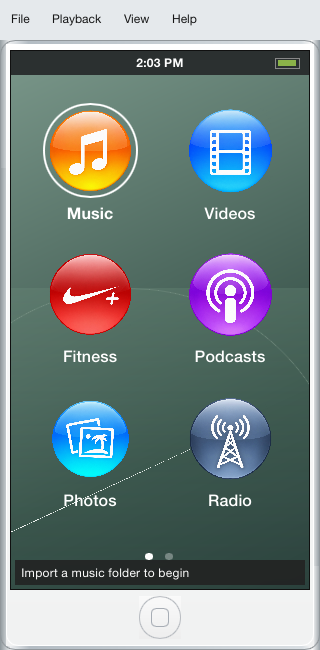
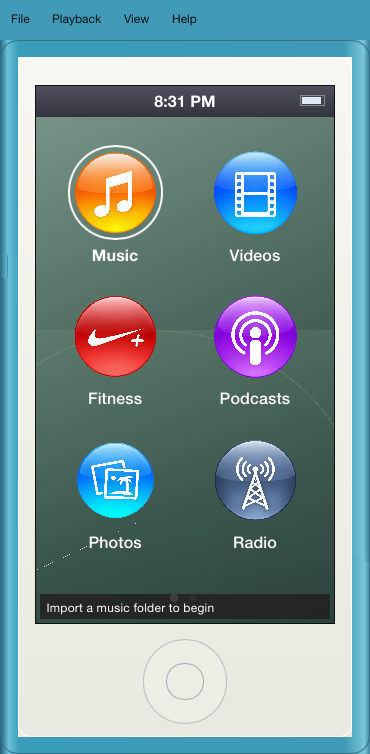
Document platform integration future media and verified delivery

diff --git a/src/app/i18n.rs b/src/app/i18n.rs
@@ -407,15 +407,15 @@ pub fn notice(language: Language, text: &str) -> String {
             );
         }
     }
-    if let Some(rest) = text.strip_prefix("Conflicting shortcut: ") {
-        if let Some((keys, action)) = rest.split_once(" is already assigned to ") {
-            return translate(
-                language,
-                "Conflicting shortcut: {0} is already assigned to {1}",
-            )
-            .replace("{0}", keys)
-            .replace("{1}", &translate(language, action));
-        }
+    if let Some(rest) = text.strip_prefix("Conflicting shortcut: ")
+        && let Some((keys, action)) = rest.split_once(" is already assigned to ")
+    {
+        return translate(
+            language,
+            "Conflicting shortcut: {0} is already assigned to {1}",
+        )
+        .replace("{0}", keys)
+        .replace("{1}", &translate(language, action));
     }
     if let Some(rest) = text.strip_prefix("No entries for ") {
         return format!("{} {}", translate(language, "No entries for"), rest);

diff --git a/src/library/lyrics.rs b/src/library/lyrics.rs
@@ -218,9 +218,9 @@ pub fn read_source(path: &Path) -> Result<Lyrics, String> {
 
 fn decode(bytes: &[u8]) -> String {
     if bytes.starts_with(&[0xff, 0xfe]) {
-        encoding_rs::UTF_16LE.decode(&bytes).0.into_owned()
+        encoding_rs::UTF_16LE.decode(bytes).0.into_owned()
     } else if bytes.starts_with(&[0xfe, 0xff]) {
-        encoding_rs::UTF_16BE.decode(&bytes).0.into_owned()
+        encoding_rs::UTF_16BE.decode(bytes).0.into_owned()
     } else {
         String::from_utf8(bytes.to_vec())
             .unwrap_or_else(|_| encoding_rs::GBK.decode(bytes).0.into_owned())

diff --git a/tests/library_order.rs b/tests/library_order.rs
@@ -21,8 +21,10 @@ fn track(title: &str, artist: &str, album: &str, number: u32, path: &str, artwor
     }
 }
 fn state(tracks: Vec<Track>, screen: Screen) -> State {
-    let mut s = State::default();
-    s.tracks = tracks;
+    let mut s = State {
+        tracks,
+        ..State::default()
+    };
     s.navigation.open(screen);
     s
 }

diff --git a/README.md b/README.md
@@ -32,6 +32,7 @@ On macOS, File, Playback, View and Help are native menus at the top of the scree
 | Navigation | L / Enter | Open or activate selection in lists; Enter opens Home icons |
 | Navigation | H / Escape / Backspace | Back in lists, restoring the previous selection |
 | Navigation | Shift + H | Physical Home button |
+| Navigation | F, then A–Z | Jump to the first matching list entry and scroll it into view |
 | Navigation | Left / Right | Home grid/pages; back/activate in lists; seek on Now Playing; volume when its slider is selected |
 | Application | Cmd/Ctrl + O / F | Import folder / search library |
 | Application | Cmd/Ctrl + Comma | Settings |
@@ -40,27 +41,25 @@ On macOS, File, Playback, View and Help are native menus at the top of the scree
 
 All app shortcuts pause while the search field has focus, preserving native text editing. Enter or Escape returns focus to results. Playback remains accessible across screens and during background scanning. **Help → Keyboard Shortcuts** displays the currently loaded bindings, grouped into the three categories above.
 
-Click the cover to reveal the seek bar, repeat, lyrics, shuffle and album track-list controls. Lyrics stay over the artwork in a translucent, left-aligned panel. Click the cover or lyrics again to dismiss the overlay. The lyrics button can hide just the words while keeping the controls open. Transport and volume remain available at the bottom. Lists and lyrics use Slint's native wheel/trackpad scrolling. Horizontal scrolling changes Home pages; the page-dot area also supports a mouse drag. Drag the bezel to move the window. Resize its edges or use zoom shortcuts; the display keeps its aspect ratio. macOS three-finger dragging is controlled by the system's trackpad settings.
+Available lyrics appear by default over the artwork in a translucent, left-aligned panel. Click the cover or lyrics to toggle this overlay together with the seek bar, repeat, shuffle and album track-list controls. Artwork fits the available region without cropping, including portrait and landscape images. Transport and volume remain available at the bottom. Lists and lyrics use Slint's native wheel/trackpad scrolling. Horizontal scrolling changes Home pages; the page-dot area also supports a mouse drag. Drag the bezel to move the window. Resize its edges or use zoom shortcuts; the display keeps its aspect ratio. macOS three-finger dragging is controlled by the system's trackpad settings.
 
 ## Lyrics
 
-The player tries these sources in order:
+Use **File → Import / Replace Lyrics** or **Settings → Lyrics for Track** to associate a `.txt` or `.lrc` file with the selected song (or the playing song outside a song list). Manual imports take precedence and persist their content across restarts and rescans, even if the source lyrics file moves. **Remove Lyrics** suppresses automatic lyrics; **Use Automatic Lyrics** clears that choice and discovers lyrics again.
 
-1. A same-name `.lrc` or `.LRC` beside the song.
-2. MP3 ID3 SYLT synchronized lyrics with millisecond timestamps.
-3. Embedded lyrics tags, including ordinary text and LRC content.
+Automatic discovery checks a same-name `.lrc` beside the audio first, then `.txt`, then embedded synchronized/plain tags. Extension matching is case-insensitive. Blank sidecars fall back to the next source. TXT remains literal, scrollable text.
 
 LRC supports repeated timestamps, decimal fractions, positive/negative offsets, UTF-8, UTF-16 and GBK sidecars. The current line follows the audio engine's playback position and scrolls into view. Seeking updates the highlight. Enhanced LRC word tags are reduced to text; highlighting is per line. Songs without lyrics or artwork still play normally and show an appropriate fallback. Unsupported SYLT timestamp units fall back to plain lyrics.
 
 ## Configuration
 
-The first launch creates `shortcuts.json` (version 3); `settings.json` is saved when the window changes mode/zoom and when the app closes. On macOS the default directory is `~/Library/Application Support/Nano.Nano-Music-Player`; Windows and Linux use their native application configuration directories. `--config-dir` overrides this.
+The first launch creates `shortcuts.json` (version 4); `settings.json` saves display preferences and interface language. **Settings → Language** selects English (default), 简体中文 or 日本語. Music metadata and lyrics keep their original text. On macOS the default directory is `~/Library/Application Support/Nano.Nano-Music-Player`; Windows and Linux use their native application configuration directories. `--config-dir` overrides this.
 
 **Settings → Keyboard Shortcuts** edits bindings in the app. Select an action with J/K, open it with L/Enter, choose **Replace keys** or **Add key**, then press a key combination. **Remove keys** disables that action’s shortcuts, **Default keys** restores its bindings, and **Restore All Defaults** resets the complete keymap. Changes are validated for conflicts, saved atomically, and applied immediately; Escape cancels recording or closes the editor. You can also edit JSON while the app is closed and restart to apply changes. Examples are in [`examples/`](examples/). Shortcut entries contain a semantic action, a key, and exact modifiers. `primary` means Command on macOS and Control elsewhere; `secondary` means Control on macOS and Super elsewhere. Remove a binding to disable it, or add an alias. Duplicate/ambiguous bindings are rejected with a visible message and defaults are used.
 
-Unmodified version 1 or 2 defaults are automatically upgraded to the Yazi-style navigation. Custom version 1 maps are preserved. On Home, H/L move horizontally between icons and pages, J/K move vertically, and Enter opens the selection. In lists, H/L go back/open and J/K move by one row. Arrow keys additionally provide seeking and volume adjustments on Now Playing.
+Untouched version 1–3 defaults upgrade to the current navigation and F-prefix shortcut. Customized maps remain unchanged; Jump to letter can be assigned in Settings. On Home, H/L move horizontally between icons and pages, J/K move vertically, and Enter opens the selection. In lists, H/L go back/open and J/K move by one row. Arrow keys additionally provide seeking and volume adjustments on Now Playing.
 
-`zoom` ranges from 0.75 to 3.0. A saved `window_width` takes precedence over zoom at startup; `window_height` is used when only height is provided. Remove both dimensions to size the window from `zoom`. Resizing keeps the display proportions and persists the resulting dimensions.
+`zoom` ranges from 0.75 to 3.0. A saved `window_width` takes precedence over zoom at startup; `window_height` is used when only height is provided. Remove both dimensions to size the window from `zoom`. Screen Mode preserves 240:432; Device Mode follows the complete hardware ratio 39.6:76.5. The LCD uses one logical coordinate system at every zoom. Resizing persists the resulting dimensions.
 
 ## Structure and verification
 
@@ -78,4 +77,10 @@ cargo clippy --all-targets -- -D warnings
 
 Tests include dispatcher/state regressions, small original MP3/M4A/FLAC/WAV fixtures, embedded lyrics, and headless Slint key/pointer events plus rendered screenshots. GUI test snapshots are written to the system temporary directory. Platform-specific audio output and gestures still benefit from native testing on each target OS.
 
-Settings opens a working settings screen for shortcuts, display mode and zoom. The remaining nonmusic Home icons currently open placeholders. Radio, clock, fitness, photos, podcasts and video playback are outside this implementation; Playlists currently exposes All Songs. The player layout follows the provided seventh-generation nano photos and the Apollomaniacs music guide. See [`docs/RESOURCES.md`](docs/RESOURCES.md) for sources, asset provenance and licenses.
+Settings includes customizable shortcuts, display mode, zoom, per-track lyrics and language. The remaining nonmusic Home icons currently open placeholders. Radio, clock, fitness, photos, podcasts and video playback are outside this implementation; Playlists currently exposes All Songs. The player layout follows the provided seventh-generation nano photos and the Apollomaniacs music guide. See [`docs/RESOURCES.md`](docs/RESOURCES.md) for sources, asset provenance and licenses.
+
+Artists, Albums and global Songs sort alphabetically using case-insensitive keys with deterministic tie-breakers. Individual albums retain track-number order. Album and artist rows show representative cover thumbnails.
+
+See [`docs/MACOS_INTEGRATION.md`](docs/MACOS_INTEGRATION.md) for the stable bundle ID and targeted AeroSpace floating rule. The app leaves your window-manager configuration untouched. [`docs/FUTURE_MEDIA.md`](docs/FUTURE_MEDIA.md) evaluates future video and podcast architecture. Implementation phases and verified checks are tracked in [`docs/IMPLEMENTATION_PLAN.md`](docs/IMPLEMENTATION_PLAN.md).
+
+The Rust/Slint architecture supports Windows and Linux, but this implementation has been built and exercised on macOS only. Native Windows/Linux compilation, audio output, packaging and UI behavior remain unverified.

diff --git a/docs/FUTURE_MEDIA.md b/docs/FUTURE_MEDIA.md
@@ -1,0 +1,67 @@
+# Future video and podcast support
+
+This is an architecture evaluation only. Video playback and podcast features are not implemented.
+
+Both are feasible while preserving the reducer/controller architecture. Podcasts can extend the current audio worker and SQLite cache incrementally. Video has a larger integration cost because it requires a multimedia backend, an audio/video clock and a frame presentation path; prototype those boundaries before committing to a backend.
+
+## Video playback
+
+The current playback path is audio-only: the controller applies semantic actions to the reducer, emits `AudioCommand`s, and a worker owns the Rodio output stream, sink, decoder and progress events. Slint/FemtoVG renders the application UI. The library scanner currently recognizes audio extensions and stores audio metadata and artwork in the `tracks` SQLite table.
+
+Video needs a separate media backend, not just another audio extension. The backend must demux audio and video, decode both streams, schedule video frames against an audio clock, handle seek/pause/rate changes, and report end/error state. Audio is typically the stable playback clock; decoded frames need to be dropped or delayed to remain synchronized after seeking and under load. The current 100 ms progress polling is adequate for a position indicator but does not provide a frame presentation clock.
+
+The app currently uses Symphonia 0.5 through Rodio for audio. Symphonia 0.6.1 documents video codec support as experimental and warns against production use. A video implementation should first prototype a maintained multimedia backend with demuxing, decoding, audio output and seeking (for example, a native platform backend or GStreamer/libmpv integration), then confirm packaging, licensing and codec availability on each OS. [Symphonia 0.6.1 feature status](https://docs.rs/symphonia/0.6.1/symphonia/).
+
+Rendering is a second major decision. Slint's `Image` can present pixel buffers or textures, but the current FemtoVG path does not establish a video-frame import/presentation pipeline. A CPU path can copy decoded frames into owned RGBA buffers and update a Slint image on the UI event loop; this is simpler but risks expensive copies and UI stalls at video rates. A GPU/native texture path avoids copies but requires renderer/backend interop, texture lifetime rules, synchronization, and a supported fallback. Slint documents its image and texture APIs, but integration must be validated against this app's pinned Slint 1.18.1 and renderer configuration. [Slint `Image`](https://docs.rs/slint/1.18.1/slint/struct.Image.html).
+
+Preserve the existing reducer and semantic `Action` model as the source of playback state. Introduce a media-worker interface behind commands and events; decoder and rendering callbacks must not mutate `State`. Keep probing and decoding off the UI thread. Deliver owned frame data or retained texture handles through a bounded latest-frame channel so a slow UI drops stale frames. Make shutdown and resource lifetimes explicit. The audio engine currently checks track IDs; add a monotonically increasing playback generation to every command, frame and event so reopening the same item also rejects events from a previous playback session.
+
+Suggested first milestone: play one local MP4 with synchronized audio, pause/resume, seek, stop, and clean shutdown; test seek during playback, rapid source changes, decode errors, window resize, and repeated open/close. Defer playlists, subtitles, hardware acceleration, and broad codec claims until the baseline works on macOS and another target.
+
+## Podcasts
+
+Podcasts fit the existing music player more naturally, but need feed and episode domain objects rather than treating each episode as an ordinary local song. The import pipeline already performs filesystem work on a background thread and caches metadata in SQLite; it can remain the model for background feed refresh and download work, while the controller/reducer continues to own visible state and user actions.
+
+An incremental design could add tables like:
+
+```sql
+CREATE TABLE podcast_feeds (
+  id TEXT PRIMARY KEY,
+  feed_url TEXT NOT NULL UNIQUE,
+  title TEXT NOT NULL,
+  image_url TEXT,
+  last_checked INTEGER
+);
+
+CREATE TABLE podcast_episodes (
+  id TEXT PRIMARY KEY,
+  feed_id TEXT NOT NULL REFERENCES podcast_feeds(id),
+  guid TEXT NOT NULL,
+  title TEXT NOT NULL,
+  media_url TEXT,
+  local_path TEXT,
+  duration REAL,
+  published INTEGER,
+  position REAL NOT NULL DEFAULT 0,
+  completed INTEGER NOT NULL DEFAULT 0,
+  UNIQUE(feed_id, guid)
+);
+```
+
+Use normalized feed URLs as initial feed identity and feed-scoped RSS GUIDs as episode identity. RSS GUIDs are optional; define and persist a fallback identity derived from enclosure URL, publication time and title, with an alias/migration policy if a GUID later appears. Enclosure URLs can change, so a URL alone is a poor durable key. [RSS GUID and enclosure specification](https://www.rssboard.org/rss-specification).
+
+Store download paths separately from remote enclosure URLs; do not overload the track path key. Persist playback position periodically and on pause/stop, then restore it when an episode is selected. Define completion behavior (for example, mark complete near the end and reset only on explicit replay); avoid a database update on every 100 ms progress event.
+
+RSS parsing and network transfer should run off the UI thread. A feed refresh should parse RSS/Atom metadata, apply updates transactionally, preserve local playback position/completion, and report malformed feeds or unavailable enclosures without discarding the prior cache. Downloads need cancellation, temporary-file plus atomic rename, disk-space/error reporting, and a clear policy for duplicate enclosures. Network requests should have timeouts and should not block the app's controller loop. Keep feed refresh separate from playback so an offline or slow feed cannot interrupt local music.
+
+Expose podcast actions through the existing reducer/controller path: add or refresh feed, select episode, download/delete download, resume, mark played/unplayed, and skip a configurable intro/outro. Reuse the audio worker initially for downloaded or streamed audio only if it can report stable seek positions for the chosen source; remote streaming adds buffering and reconnect semantics that the current file-backed `File::open` decoder does not provide. Preserve stable episode IDs across feed refreshes and reject stale worker events using playback IDs, as the audio engine already does for tracks.
+
+Suggested stages are local episode records and resume state first, then RSS refresh, then downloads and optional streaming. This separates core episode navigation and durable resume behavior from network and buffering complexity. No RSS parser or HTTP dependency is selected here; choose them during implementation based on current maintenance, async/runtime compatibility, TLS support, and license review.
+
+## Existing boundaries to preserve
+
+- `State` remains the authoritative reducer; UI callbacks dispatch semantic actions and effects.
+- Controller owns the connection from reducer effects to background workers and Slint updates.
+- Scanning, network work, database operations, and decoding stay off the UI thread.
+- Worker events identify the active media item so delayed events cannot update a newer selection.
+- Existing music-library track indices and queue behavior remain stable while adding separate media entities.

diff --git a/docs/IMPLEMENTATION_PLAN.md b/docs/IMPLEMENTATION_PLAN.md
@@ -1,6 +1,6 @@
 # Implementation plan
 
-Status: in progress. Existing work preserved in checkpoint `9d4fced` (58 tests pass).
+Status: complete. Existing work preserved in checkpoint `9d4fced` (58 tests pass).
 
 ## Inspection and design basis
 
@@ -35,7 +35,7 @@ Decisions: persisted enum English/Simplified Chinese/Japanese; Settings language
 
 Acceptance: language changes immediately, persists across restart, all three catalogs have complete keys, metadata remains verbatim; menus/Home/settings/lyrics/empty states readable. Format/check/tests, screenshots, commit.
 
-## Phase 5 — macOS, future architecture, delivery (pending)
+## Phase 5 — macOS, future architecture, delivery (verified)
 
 Decisions: keep stable `org.nano.music-player` bundle identifier; document targeted AeroSpace `on-window-detected` floating rule, never edit global config. Evaluate video backend/rendering/AV sync and podcast RSS/download/resume architecture without implementation. Update user docs and example configuration; build bundle and launch with the existing normal library.
 
@@ -49,5 +49,7 @@ Acceptance: bundle ID verified, rule documented against official AeroSpace docs,
 - Phase 2: fmt/check and 64 tests pass (42 core, 15 codecs, 6 association, 1 comprehensive UI). Worker-load regressions cover sidecar changes, deleted manual source, changed audio, removal tombstone and reset. UI regressions cover real remove/reset effects and seek highlight/scroll; wrapped rows use measured Slint heights. Inspected plain and synced lyrics screenshots.
 - Phase 3: fmt/check and 68 tests pass. Sorting uses lowercase text, original spelling and path tie-breakers; unknown album track numbers sort after known numbers. UI sequence tests cover scroll-to-match, no-match letter consuming, Escape, Command/Ctrl+F, text entry and Home guards. Representative thumbnail screenshots inspected. Original 112×112 firmware Settings icon used directly; generated Home assets retained.
 - Phase 4: fmt/check and 72 tests pass (3 catalog, 43 core, 15 format, 4 ordering, 6 association, 1 comprehensive UI). Catalog coverage checks static UI keys and customizable action titles. Settings-driven changes, old-config English defaults and persisted languages tested. Metadata deliberately named Music/Settings/Lyrics remains unchanged. Inspected Chinese/Japanese Home, Settings and language-selection screenshots; native menus receive the same translated bindings.
-- Album-list refinement: fmt/check and comprehensive UI test pass; inspected larger-cover screenshots. The initial ten-album regression verified shared row geometry. Corrected page-10 density passes the comprehensive UI regression: seven cover rows fit the LCD and F+Z scrolls to the final album. Inspected Albums and Artists renderings alongside the extracted manual screenshot. Rebuild/native verification pending.
-- No current blockers. Native Windows/Linux validation unavailable on this macOS host.
+- Album-list refinement: fmt/check and comprehensive UI test pass; inspected larger-cover screenshots. The initial ten-album regression verified shared row geometry. Corrected page-10 density passes the comprehensive UI regression: seven cover rows fit the LCD and F+Z scrolls to the final album. Inspected Albums and Artists renderings alongside the extracted manual screenshot. Packaged and relaunched the combined app after verification.
+- Phase 5: cargo fmt --all -- --check, cargo check, cargo test --all-targets, cargo clippy --all-targets -- -D warnings and git diff --check pass. The shared tree includes a separately coordinated playback-artwork performance change, with 78 passing tests and one ignored manual benchmark. Kept commits/file ownership separate.
+- Packaged a local debug app with stable bundle ID org.nano.music-player and relaunched it using the normal configuration directory. Existing library has 42 tracks. Native Home/playback/lyrics and macOS menus inspected; corrected album-list proportions verified in rendered UI tests against the extracted page-10 screenshot. The user is actively interacting with the launched app, so further navigation was left to them.
+- AeroSpace rule verified against the official current guide and documented; global user configuration was not modified. Video/podcast architecture is documented only. No current blockers; native Windows/Linux build/runtime validation remains unavailable on this macOS host.

diff --git a/docs/RESOURCES.md b/docs/RESOURCES.md
@@ -3,6 +3,8 @@
 ## Device behavior and original artwork
 
 - [Apple iPod nano manuals](https://support.apple.com/en-us/docs/ipod/133772).
+- The supplied Apple 2012 iPod nano (7th generation) user guide (`46034.pdf`): rendered pages 9–10 and 18–20 and inspected music/podcast chapters. The page-10 Flick example contains the original Albums list screenshot used to measure row, thumbnail and header proportions. Playback layout and alphabet navigation were checked against this original manual.
+- [Apple seventh-generation technical specifications](https://support.apple.com/en-us/112039): 240×432 LCD and 39.6×76.5 mm complete hardware dimensions used for the shared display/device proportions.
 - [Apple iPod nano User Guide, 2015](https://cdsassets.apple.com/live/6GJYWVAV/user/locale/en-gb/ma1624_ipod_nano_2015_user_guide.pdf): Home icon arrangement, Home-button behavior, touch scrolling, Music browsing and Now Playing controls. The six Home icons under `assets/original/` contain the guide's original 53×53 images and their transparency masks extracted from page 5. The SVG wrappers restore the PDF masks; they do not redraw the symbols. The low resolution limits clarity on Retina displays. Apple artwork remains © Apple Inc. and has no open-source license granted here.
 - [AnandTech: iPod Nano 7th Generation Brief Hands On](https://www.youtube.com/watch?v=sGgejvq2vlE): found as an early device reference. The in-app browser cannot play its media, and the brief video lacks useful music interaction coverage. Do not treat it as verification of the music UI.
 - [Justin Tse: iPod Nano 7th Generation Review](https://www.youtube.com/watch?v=SEvDPVUbZns): additional video candidate; playback details have not been visually verified. Further music-focused reference footage is pending.
@@ -27,5 +29,6 @@ Sharper, transparent icon reconstructions are generated with the built-in imageg
 
 - [Apollomaniacs: seventh-generation nano Music](https://www.apollomaniacs.com/ipod/howto_music_ipodnano.htm): supplied by the user; cover tap reveals extra controls and lyrics over artwork, and the track-list button opens the current album.
 - The four user-supplied photographs guide the charcoal title strip, full-width artwork, large white transport symbols, compact lyrics and blue aluminium device frame. The fourth photograph is the primary player reference.
+- The original 112×112 Settings icon was recovered directly from Apple's firmware; see [source and extraction details](SETTINGS_ICON_SOURCE.md). The user's generated Home icons are retained.
 - [Yazi Quick Start](https://yazi-rs.github.io/docs/quick-start/): H leaves the current level, L enters, J/K move the cursor. Letters keep those meanings in lists, while Home uses H/L for horizontal icon navigation; seek and volume controls use separate actions or arrow context.
-- `previous.svg`, `next.svg`, `lyrics.svg`, `track-list.svg` and `slider-knob.svg` are small vector assets authored for this project. The lyrics symbol is an app-specific control; it does not claim to provide Apple Genius.
+- `previous.svg`, `next.svg`, `track-list.svg` and `slider-knob.svg` are small vector assets authored for this project. The unused legacy `lyrics.svg` remains in the asset directory; the redundant lyrics button has been removed.

diff --git a/docs/MACOS_INTEGRATION.md b/docs/MACOS_INTEGRATION.md
@@ -1,0 +1,13 @@
+# macOS integration
+
+The packaging script creates `Nano Music Player.app` with the stable bundle identifier `org.nano.music-player`. AeroSpace can float this app's window by adding the following entry to the user's own `~/.aerospace.toml`:
+
+```toml
+[[on-window-detected]]
+if = 'test %{app-bundle-id} = org.nano.music-player'
+run = 'layout floating'
+```
+
+This is an optional, user-managed window-manager rule. The app does not read, create, or modify AeroSpace configuration. AeroSpace documents `on-window-detected` callbacks and recommends the `if = 'test %{app-bundle-id} = …'` form; the older `if.app-id` form remains supported but is soft deprecated. Its `list-apps` command can confirm the ID of a running app. See the [AeroSpace callback guide](https://nikitabobko.github.io/AeroSpace/guide#on-window-detected) and [command reference](https://nikitabobko.github.io/AeroSpace/commands#list-apps).
+
+The bundle ID is set in [`scripts/package-macos.sh`](../scripts/package-macos.sh). Keep it stable when changing the display name or executable; changing it would require users' app-specific window-manager rules and macOS identity-based settings to be updated.

diff --git a/docs/SETTINGS_ICON_SOURCE.md b/docs/SETTINGS_ICON_SOURCE.md
@@ -5,3 +5,5 @@
 Source firmware: [Apple iPod software 1.1.2, build 39A10023](https://appldnld.apple.com/ipod/sbml/osx/bundles/031-59796-20160525-8E6A5D46-21FF-11E6-89D1-C5D3662719FC/iPod_1.1.2_39A10023.ipsw). The image was decoded from the firmware's `SilverImagesDB.LE.bin` image table. The entry uses BGRA pixel format `0x1888`; its file header reports 112 × 112 dimensions. The checked-in PNG is the decoded source image with transparency preserved, without redrawing or resizing.
 
 The extracted firmware/database was kept outside the repository. The generated Home icons remain separate and unchanged; this source asset is only for the Settings icon.
+
+Original artwork remains © Apple Inc.; no open-source license is granted for this recovered asset.
